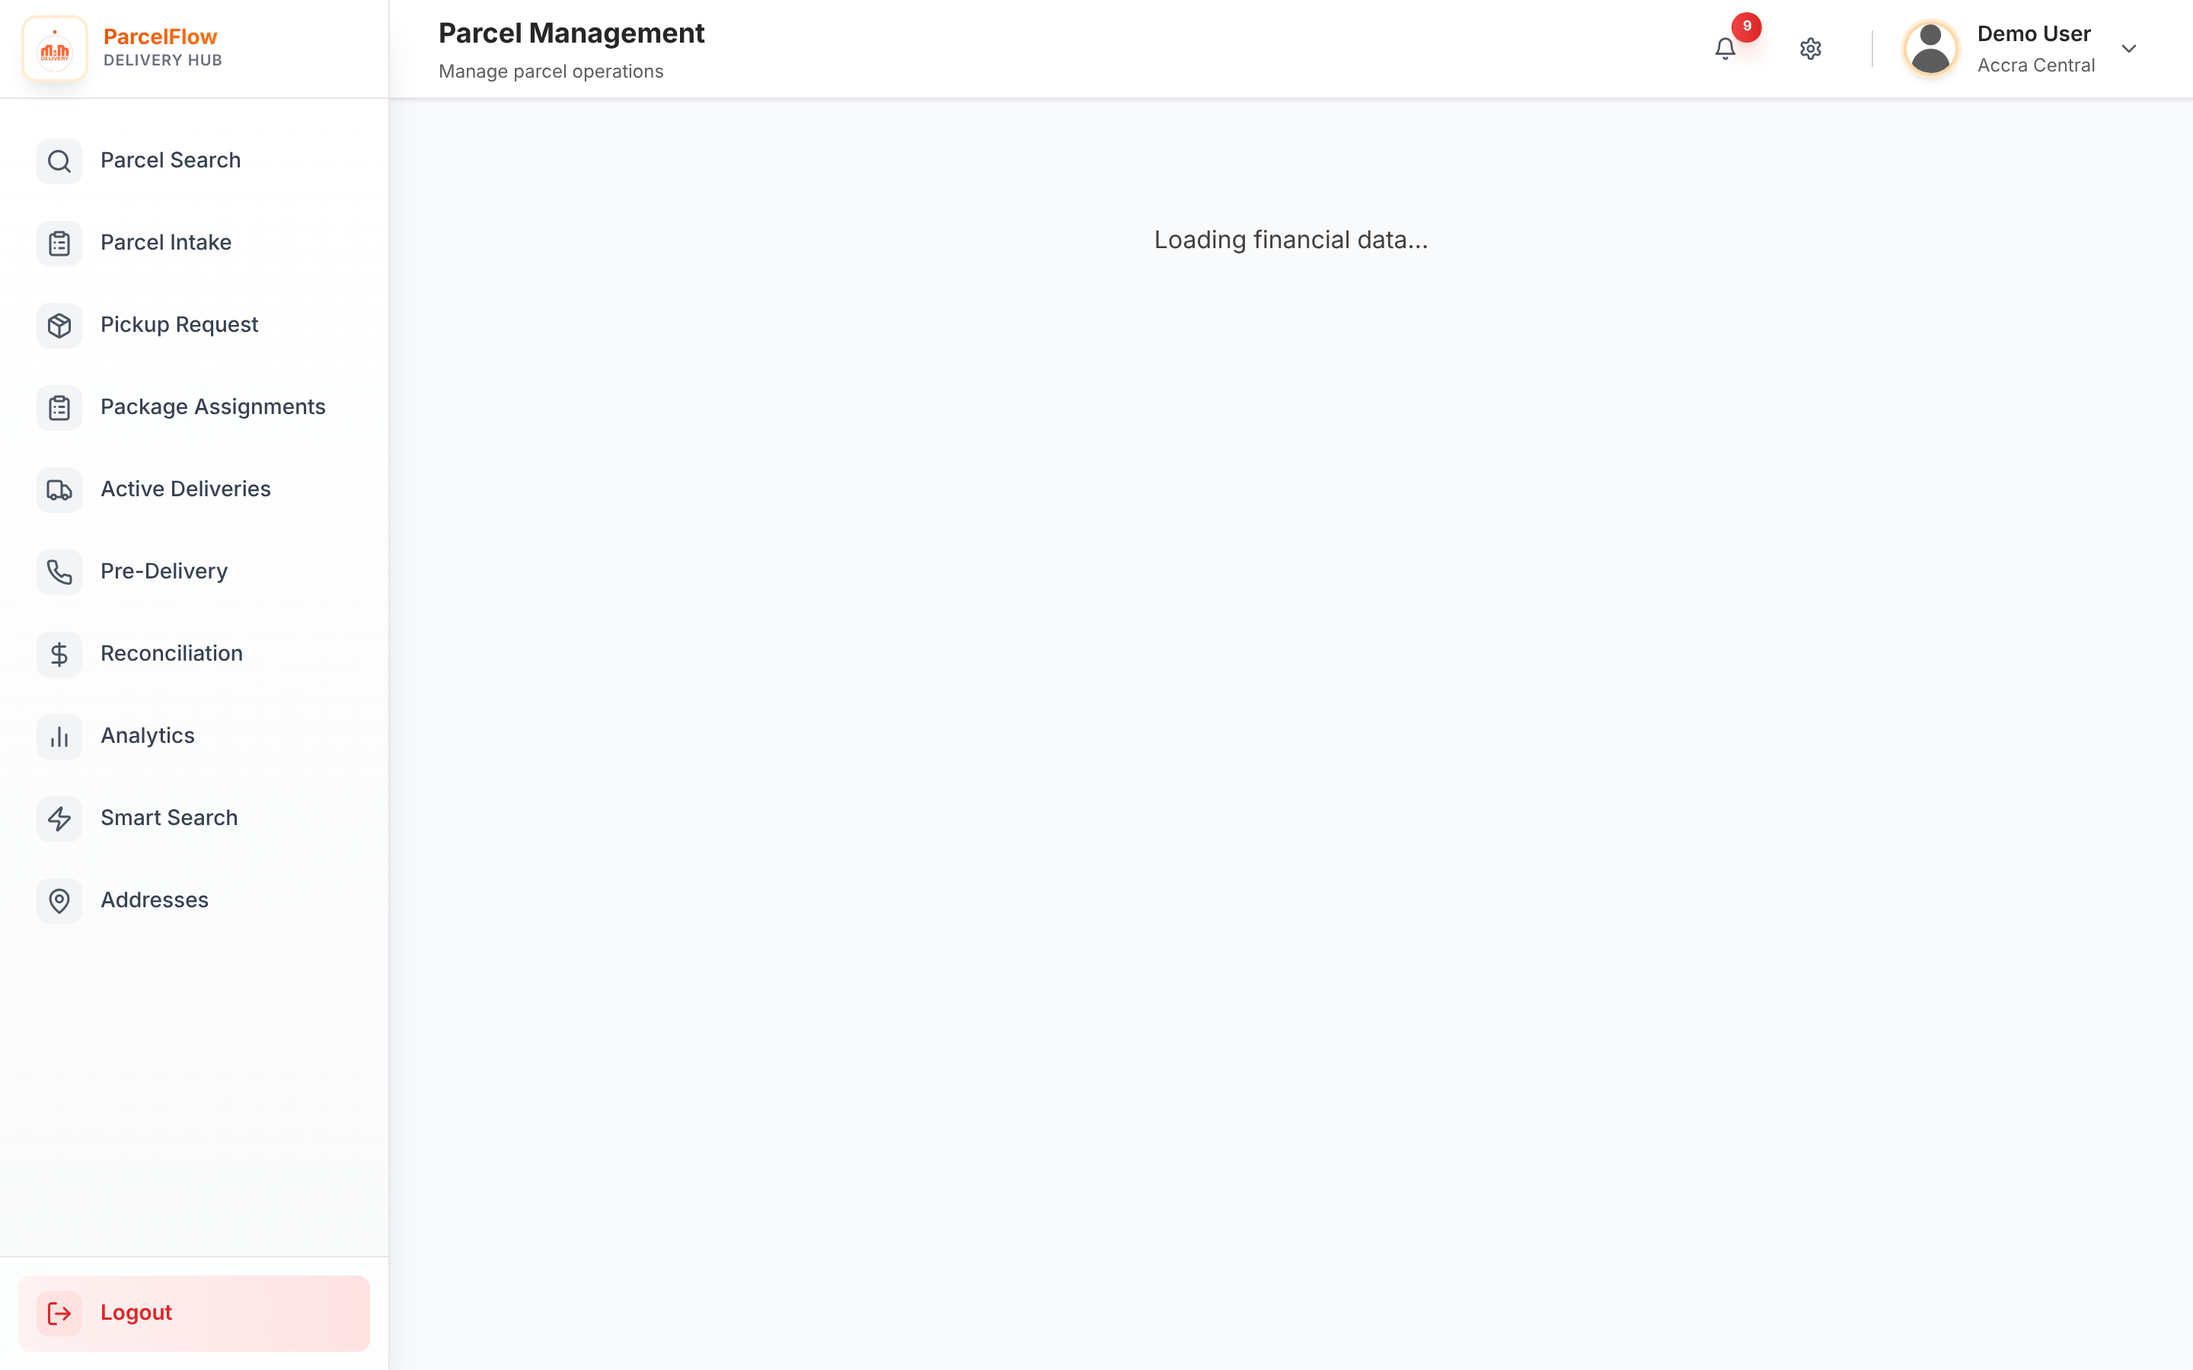
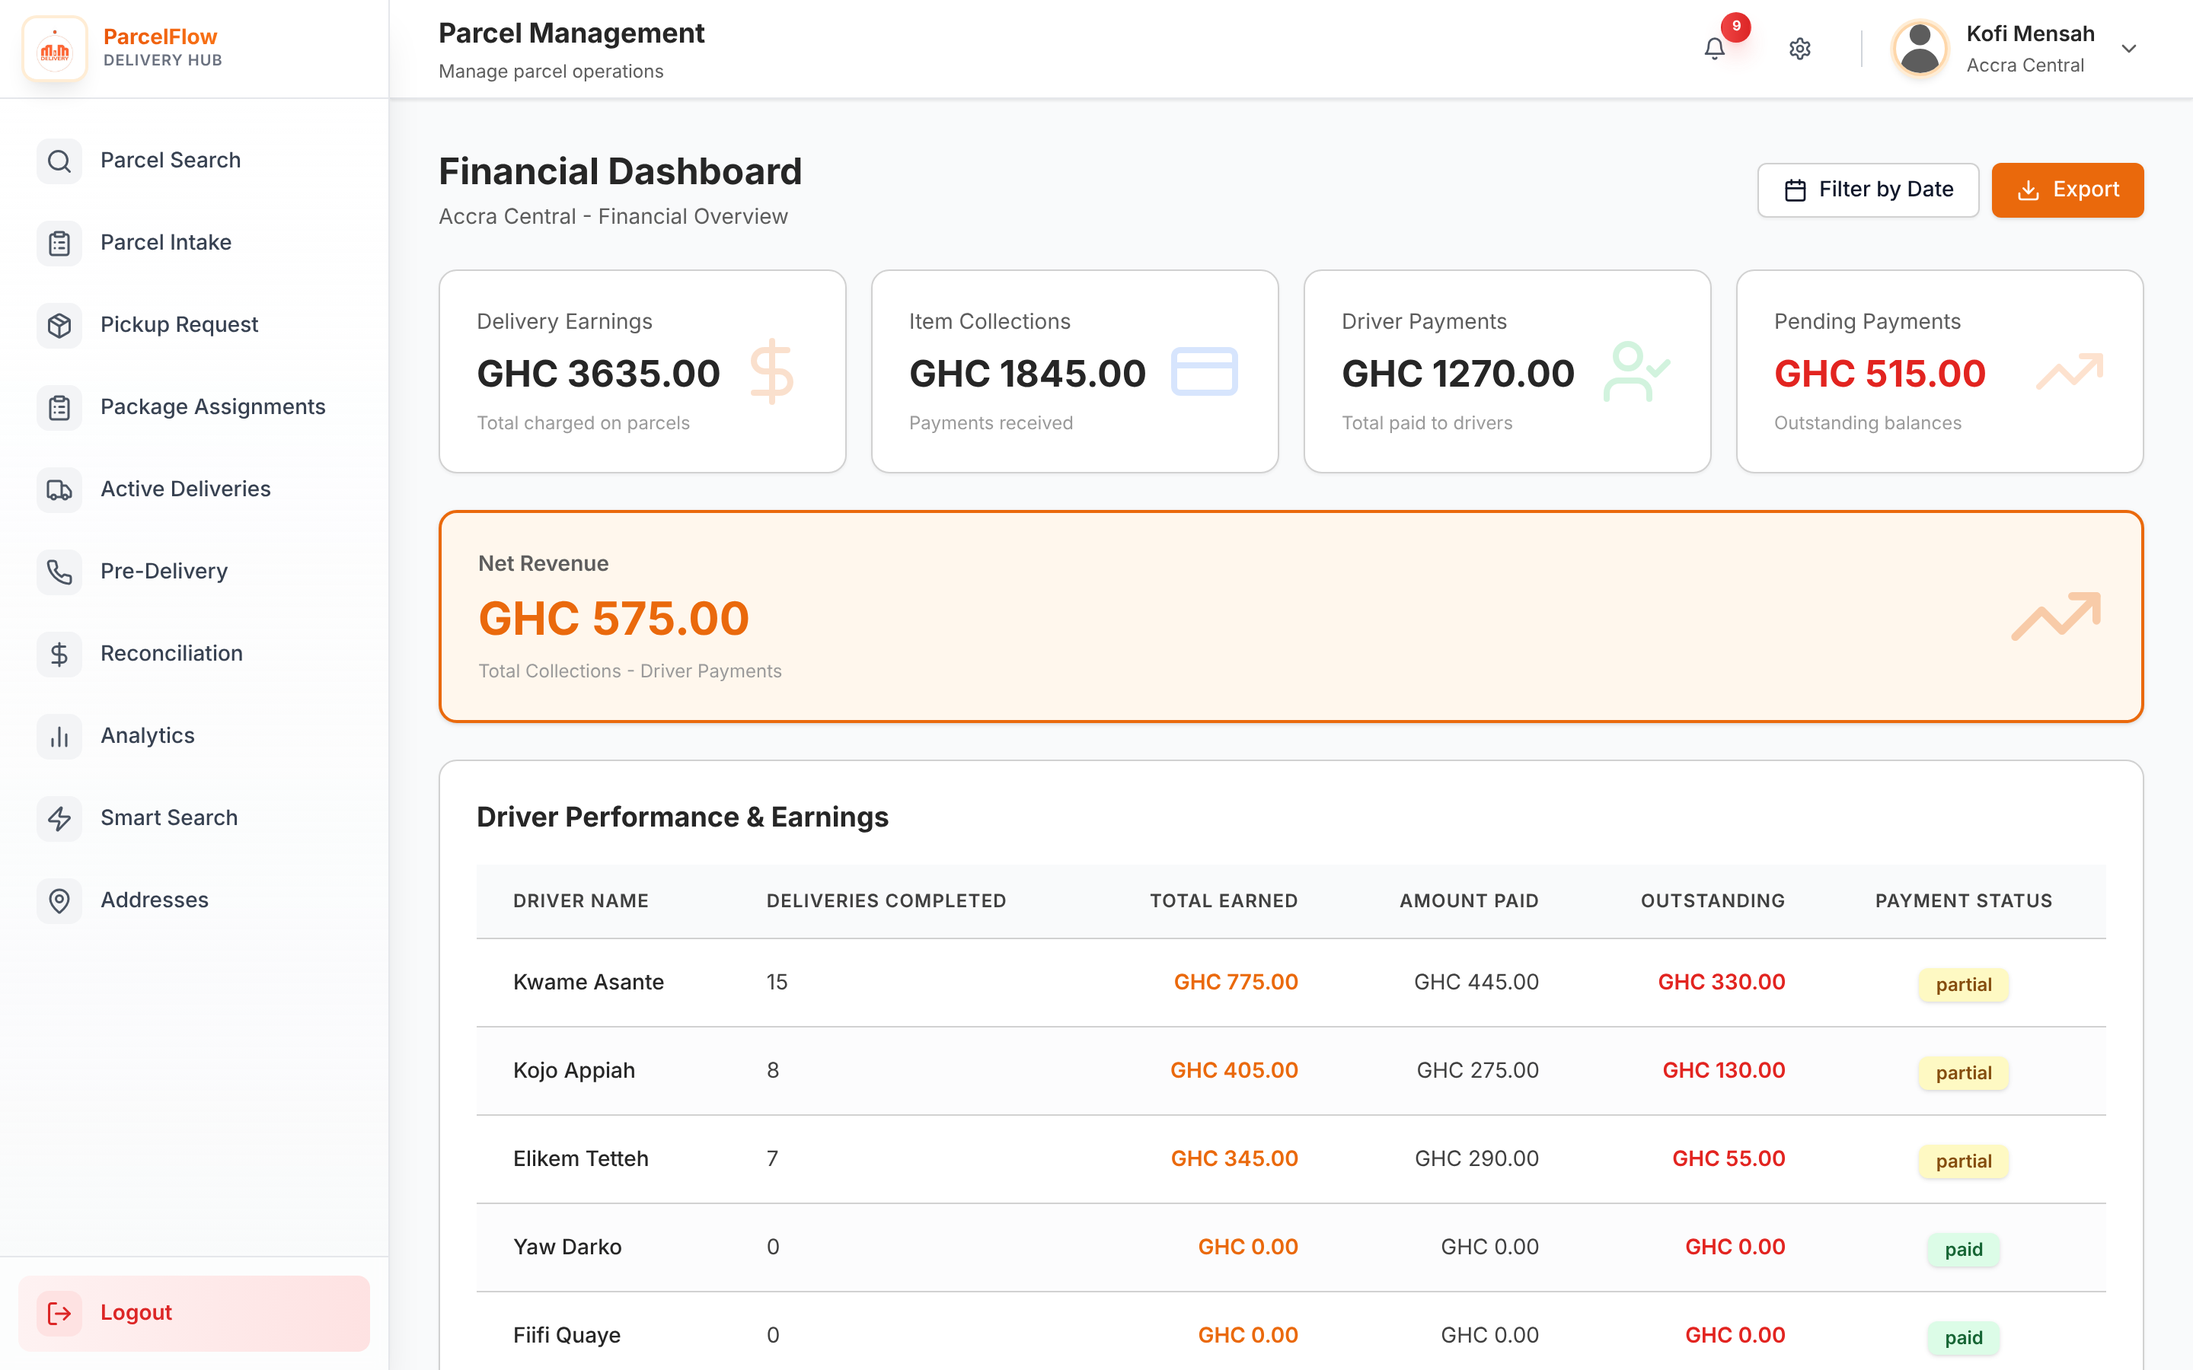
Load the Financial dashboard from the revenue API
The page read old built-in sample data and waited for a station that
was never set, so it stayed on "Loading". It now calls
/api-admin/revenue-dashboard for the cards and
/api-admin/rider-performance-dashboard for the driver table, scoped to
the user's office (admins see all stations) and to the chosen dates.
Layout is unchanged; two card hints now describe the figures shown, and
a failed load offers Try again instead of loading forever.

Claude-Session: https://claude.ai/code/session_01LFKpgJ4YUdgAaptEL6Tn7h

diff --git a/src/screens/FinancialDashboard/FinancialDashboard.tsx b/src/screens/FinancialDashboard/FinancialDashboard.tsx
@@ -1,4 +1,4 @@
-import { useState, useEffect } from "react";
+import { useState, useEffect, useCallback } from "react";
 import { DollarSignIcon, TrendingUpIcon, CreditCardIcon, UserCheckIcon, CalendarIcon, DownloadIcon } from "lucide-react";
 import { Card, CardContent } from "../../components/ui/card";
 import { Button } from "../../components/ui/button";
@@ -6,33 +6,82 @@ import { Input } from "../../components/ui/input";
 import { Label } from "../../components/ui/label";
 import { Badge } from "../../components/ui/badge";
 import { useStation } from "../../contexts/StationContext";
-import { calculateFinancialSummary, getDriverFinancials } from "../../data/mockData";
-import { FinancialSummary, DriverFinancial } from "../../types";
+import adminService, { RiderLeaderboardEntry } from "../../services/adminService";
+import { FinancialSummary, DriverFinancial, PaymentStatus } from "../../types";
 import { formatCurrency } from "../../utils/dataHelpers";
 
+// Map a rider leaderboard row onto the table's existing columns.
+const toDriverFinancial = (r: RiderLeaderboardEntry, stationId: string): DriverFinancial => {
+    const totalEarned = r.revenue || 0;
+    const outstandingBalance = r.outstanding || 0;
+    const amountPaid = Math.max(0, totalEarned - outstandingBalance);
+    const paymentStatus: PaymentStatus =
+        outstandingBalance <= 0 ? "paid" : amountPaid > 0 ? "partial" : "pending";
+    return {
+        driverId: r.riderId,
+        driverName: r.riderName,
+        stationId,
+        deliveriesCompleted: r.deliveries || 0,
+        totalEarned,
+        amountPaid,
+        outstandingBalance,
+        paymentStatus,
+    };
+};
+
+// <input type="date"> gives "YYYY-MM-DD"; the API wants epoch ms covering whole local days.
+const startOfDay = (d: string) => { const [y, m, day] = d.split("-").map(Number); return new Date(y, m - 1, day).getTime(); };
+const endOfDay = (d: string) => startOfDay(d) + 24 * 60 * 60 * 1000 - 1;
+
 export const FinancialDashboard = (): JSX.Element => {
-    const { currentStation, userRole } = useStation();
+    const { userRole, isAdmin, userOfficeId, userOfficeName } = useStation();
     const [financialData, setFinancialData] = useState<FinancialSummary | null>(null);
     const [driverBreakdown, setDriverBreakdown] = useState<DriverFinancial[]>([]);
+    const [loadError, setLoadError] = useState<string | null>(null);
     const [dateRange, setDateRange] = useState<{ from: string; to: string } | undefined>(undefined);
     const [showDateFilter, setShowDateFilter] = useState(false);
     const [fromDate, setFromDate] = useState("");
     const [toDate, setToDate] = useState("");
 
-    useEffect(() => {
-        if (currentStation || userRole === "ADMIN") {
-            const summary = calculateFinancialSummary(
-                userRole === "ADMIN" ? undefined : currentStation?.id,
-                dateRange
-            );
-            setFinancialData(summary);
+    // Admins see every station; everyone else is scoped to their own office.
+    const officeId = isAdmin ? undefined : userOfficeId ?? undefined;
 
-            const drivers = getDriverFinancials(
-                userRole === "ADMIN" ? undefined : currentStation?.id
-            );
-            setDriverBreakdown(drivers);
+    const loadFinancials = useCallback(async () => {
+        setLoadError(null);
+        const filters = {
+            officeId,
+            startDate: dateRange ? startOfDay(dateRange.from) : undefined,
+            endDate: dateRange ? endOfDay(dateRange.to) : undefined,
+        };
+        const [revenue, riders] = await Promise.all([
+            adminService.getRevenueDashboard(filters),
+            adminService.getRiderPerformanceDashboard(filters),
+        ]);
+
+        if (!revenue.success || !revenue.data) {
+            setFinancialData(null);
+            setLoadError(revenue.message || "Failed to load financial data.");
+            return;
         }
-    }, [currentStation, userRole, dateRange]);
+        const r = revenue.data;
+        setFinancialData({
+            stationId: officeId,
+            totalDeliveryEarnings: r.totalRevenue || 0,
+            totalItemCollections: r.collected || 0,
+            totalDriverPayments: r.driverPayments || 0,
+            pendingPayments: r.outstanding || 0,
+            netRevenue: (r.collected || 0) - (r.driverPayments || 0),
+            dateRange,
+        });
+        // The table is secondary: if this call fails, the cards still show and the table says "No driver data".
+        setDriverBreakdown(
+            riders.success ? (riders.data?.riderLeaderboard ?? []).map((row) => toDriverFinancial(row, officeId ?? "")) : []
+        );
+    }, [officeId, dateRange]);
+
+    useEffect(() => {
+        loadFinancials();
+    }, [loadFinancials]);
 
     const handleApplyDateFilter = () => {
         if (fromDate && toDate) {
@@ -86,7 +135,20 @@ export const FinancialDashboard = (): JSX.Element => {
             <div className="w-full">
                 <div className="mx-auto flex max-w-7xl flex-col gap-6 px-4 py-6 sm:px-6 lg:px-8 lg:py-8">
                     <div className="text-center py-12">
-                        <p className="text-neutral-700">Loading financial data...</p>
+                        {loadError ? (
+                            <>
+                                <p className="text-neutral-700">{loadError}</p>
+                                <Button
+                                    onClick={() => { setLoadError(null); loadFinancials(); }}
+                                    variant="outline"
+                                    className="mt-4 border border-[#d1d1d1]"
+                                >
+                                    Try again
+                                </Button>
+                            </>
+                        ) : (
+                            <p className="text-neutral-700">Loading financial data...</p>
+                        )}
                     </div>
                 </div>
             </div>
@@ -102,7 +164,7 @@ export const FinancialDashboard = (): JSX.Element => {
                         <div>
                             <h1 className="text-2xl font-bold text-neutral-800">Financial Dashboard</h1>
                             <p className="text-sm text-[#5d5d5d] mt-1">
-                                {userRole === "ADMIN" ? "System-wide financial overview" : `${currentStation?.name} - Financial Overview`}
+                                {isAdmin || userRole === "ADMIN" ? "System-wide financial overview" : `${userOfficeName ?? "Your station"} - Financial Overview`}
                             </p>
                         </div>
                         <div className="flex gap-2">
@@ -187,7 +249,7 @@ export const FinancialDashboard = (): JSX.Element => {
                                         <h3 className="text-2xl font-bold text-neutral-800">
                                             {formatCurrency(financialData.totalDeliveryEarnings)}
                                         </h3>
-                                        <p className="text-xs text-[#9a9a9a]">From delivery fees</p>
+                                        <p className="text-xs text-[#9a9a9a]">Total charged on parcels</p>
                                     </div>
                                     <DollarSignIcon className="w-12 h-12 text-[#ea690c] opacity-20" />
                                 </div>
@@ -202,7 +264,7 @@ export const FinancialDashboard = (): JSX.Element => {
                                         <h3 className="text-2xl font-bold text-neutral-800">
                                             {formatCurrency(financialData.totalItemCollections)}
                                         </h3>
-                                        <p className="text-xs text-[#9a9a9a]">From item values</p>
+                                        <p className="text-xs text-[#9a9a9a]">Payments received</p>
                                     </div>
                                     <CreditCardIcon className="w-12 h-12 text-blue-500 opacity-20" />
                                 </div>

diff --git a/src/mocks/mockAdapter.ts b/src/mocks/mockAdapter.ts
@@ -177,6 +177,56 @@ on("get", /^\/api-admin\/users$/, ({ params }) => {
 on("get", /^\/api-admin\/user-actions$/, ({ params }) => page(USER_ACTIONS, params));
 on("get", /^\/api-admin\/reconciliations\/by-date$/, ({ params }) => reconciledOn(params));
 
+// Dashboards: figures are derived from the sample parcels and assignments so they add up.
+const DAY_MS = 24 * 60 * 60 * 1000;
+const dashboardWindow = (params: URLSearchParams) => {
+    const end = Number(params.get("endDate")) || Date.now();
+    const start = Number(params.get("startDate")) || end - 30 * DAY_MS; // API default: last 30 days
+    const office = params.get("officeId");
+    return { start, end, inScope: (officeId: string) => !office || officeId === office };
+};
+const amountOf = (p: MockParcel) => (p.inboundCost || 0) + (p.pickUpCost || 0) + (p.deliveryCost || 0) + (p.storageCost || 0);
+
+on("get", /^\/api-admin\/revenue-dashboard$/, ({ params }) => {
+    const { start, end, inScope } = dashboardWindow(params);
+    const inRange = (t?: number) => (t ?? 0) >= start && (t ?? 0) <= end;
+    const parcels = PARCELS.filter((p) => inScope(officeIdOf(p)) && inRange(p.createdAt));
+    const done = ASSIGNMENTS.filter((a) => a.status === "DELIVERED" && inScope(HOME_OFFICE.id) && inRange(a.completedAt));
+    const pickedUp = parcels.filter((p) => p.pickedUp);
+    const totalRevenue = parcels.reduce((s, p) => s + amountOf(p), 0);
+    const collected = done.reduce((s, a) => s + a.parcels.reduce((t, p) => t + amountOf(p), 0), 0) + pickedUp.reduce((s, p) => s + amountOf(p), 0);
+    const outstanding = done.filter((a) => !a.payed).reduce((s, a) => s + a.parcels.reduce((t, p) => t + amountOf(p), 0), 0);
+    const driverPayments = parcels.filter((p) => p.inboudPayed).reduce((s, p) => s + (p.inboundCost || 0), 0);
+    const pod = parcels.filter((p) => p.pod).reduce((s, p) => s + amountOf(p), 0);
+    return {
+        totalRevenue, collected, outstanding, driverPayments,
+        collectionRate: totalRevenue ? Math.round((collected / totalRevenue) * 1000) / 10 : 0,
+        avgPerParcel: parcels.length ? Math.round((totalRevenue / parcels.length) * 100) / 100 : 0,
+        revenueVsCollectedTrend: [], revenueByStation: [], paymentMethodTrend: [],
+        revenueByType: { pod, nonPod: totalRevenue - pod },
+        paymentMethods: [], revenueByDayOfWeek: [],
+    };
+});
+
+on("get", /^\/api-admin\/rider-performance-dashboard$/, ({ params }) => {
+    const { start, end, inScope } = dashboardWindow(params);
+    const finished = ASSIGNMENTS.filter((a) => inScope(HOME_OFFICE.id) && (a.completedAt ?? 0) >= start && (a.completedAt ?? 0) <= end);
+    const rows = RIDERS.map((r) => {
+        const mine = finished.filter((a) => a.riderId === r.userId);
+        const delivered = mine.filter((a) => a.status === "DELIVERED");
+        const sum = (list: typeof mine) => list.reduce((s, a) => s + a.parcels.reduce((t, p) => t + amountOf(p), 0), 0);
+        return {
+            riderId: r.userId, riderName: r.name,
+            deliveries: delivered.length,
+            failed: mine.filter((a) => a.status === "RETURNED").length,
+            revenue: sum(delivered),
+            outstanding: sum(delivered.filter((a) => !a.payed)),
+            rating: 4.6, avgTimeHours: 2.1,
+        };
+    }).sort((a, b) => b.revenue - a.revenue).map((r, i) => ({ rank: i + 1, ...r }));
+    return { earningsTrend: [], monthlyEarnings: [], riderLeaderboard: rows };
+});
+
 // ── Call center ─────────────────────────────────────────────────
 on("get", /^\/api-call-center\/stats$/, () => ({ totalDeliveredYesterday: 23, reached: 15, unreachable: 3, notCalled: 5 }));
 on("get", /^\/api-call-center\/parcels\/uncalled$/, ({ params }) => parcelPage(homeParcels().filter((p) => !p.hasCalled && !p.delivered).sort(byNewest), params));

diff --git a/src/services/adminService.ts b/src/services/adminService.ts
@@ -60,6 +60,57 @@ export interface AdminReconciliationPage {
   last: boolean;
 }
 
+/** GET /api-admin/revenue-dashboard (RevenueDashboardResponse in the backend spec). */
+export interface RevenueDashboard {
+  totalRevenue: number;
+  collected: number;
+  outstanding: number;
+  collectionRate: number;
+  avgPerParcel: number;
+  driverPayments: number;
+  revenueVsCollectedTrend?: Array<{ date: string; revenue: number; collected: number; outstanding: number }>;
+  revenueByStation?: Array<{ officeId: string; stationName: string; parcels: number; revenue: number; collected: number; outstanding: number; collectionRate: number }>;
+  paymentMethodTrend?: Array<{ date: string; cash: number; momo: number; other: number }>;
+  revenueByType?: { pod: number; nonPod: number };
+  paymentMethods?: Array<{ method: string; amount: number; count: number }>;
+  revenueByDayOfWeek?: Array<{ day: string; revenue: number }>;
+}
+
+/** One row of riderLeaderboard in GET /api-admin/rider-performance-dashboard. */
+export interface RiderLeaderboardEntry {
+  rank: number;
+  riderId: string;
+  riderName: string;
+  deliveries: number;
+  failed: number;
+  revenue: number;
+  outstanding: number;
+  rating: number;
+  avgTimeHours: number;
+}
+
+export interface RiderPerformanceDashboard {
+  earningsTrend?: Array<{ date: string; revenue: number; collected: number }>;
+  monthlyEarnings?: Array<{ month: string; parcels: number; revenue: number; collected: number }>;
+  riderLeaderboard?: RiderLeaderboardEntry[];
+}
+
+/** Optional filters shared by the admin dashboards. Dates are epoch milliseconds; the API defaults to the last 30 days. */
+export interface DashboardFilters {
+  officeId?: string;
+  startDate?: number;
+  endDate?: number;
+}
+
+const dashboardParams = (f: DashboardFilters) => {
+  const params = new URLSearchParams();
+  if (f.officeId) params.append("officeId", f.officeId);
+  if (f.startDate !== undefined) params.append("startDate", String(f.startDate));
+  if (f.endDate !== undefined) params.append("endDate", String(f.endDate));
+  const q = params.toString();
+  return q ? `?${q}` : "";
+};
+
 interface ApiResponse<T = any> {
   success: boolean;
   message?: string;
@@ -171,7 +222,24 @@ class AdminService {
       };
     }
   }
+
+  async getRevenueDashboard(filters: DashboardFilters = {}): Promise<ApiResponse<RevenueDashboard>> {
+    try {
+      const response = await this.apiClient.get<RevenueDashboard>(`/revenue-dashboard${dashboardParams(filters)}`);
+      return { success: true, data: response.data };
+    } catch (error: any) {
+      return { success: false, message: error.response?.data?.message || "Failed to load revenue figures." };
+    }
+  }
+
+  async getRiderPerformanceDashboard(filters: DashboardFilters = {}): Promise<ApiResponse<RiderPerformanceDashboard>> {
+    try {
+      const response = await this.apiClient.get<RiderPerformanceDashboard>(`/rider-performance-dashboard${dashboardParams(filters)}`);
+      return { success: true, data: response.data };
+    } catch (error: any) {
+      return { success: false, message: error.response?.data?.message || "Failed to load rider performance." };
+    }
+  }
 }
 
 export default new AdminService();
-
